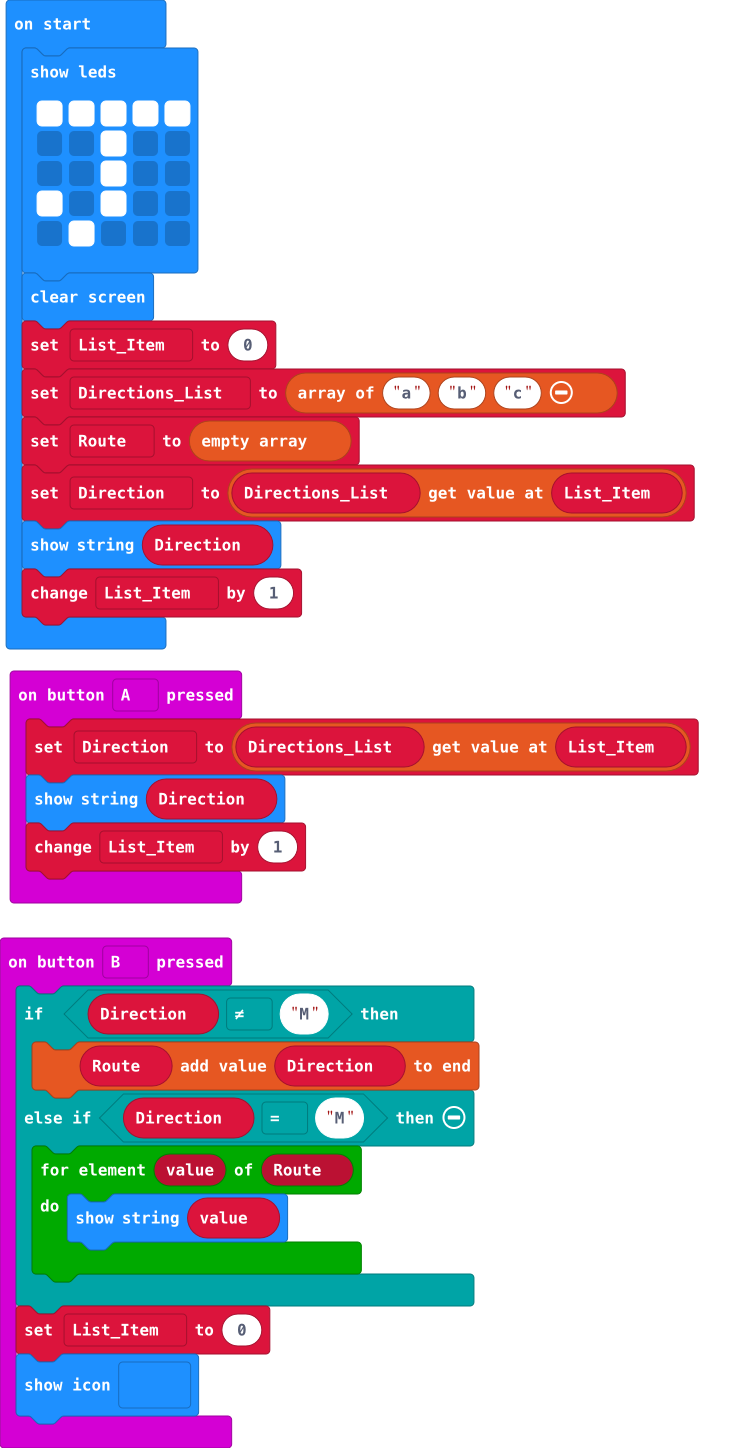
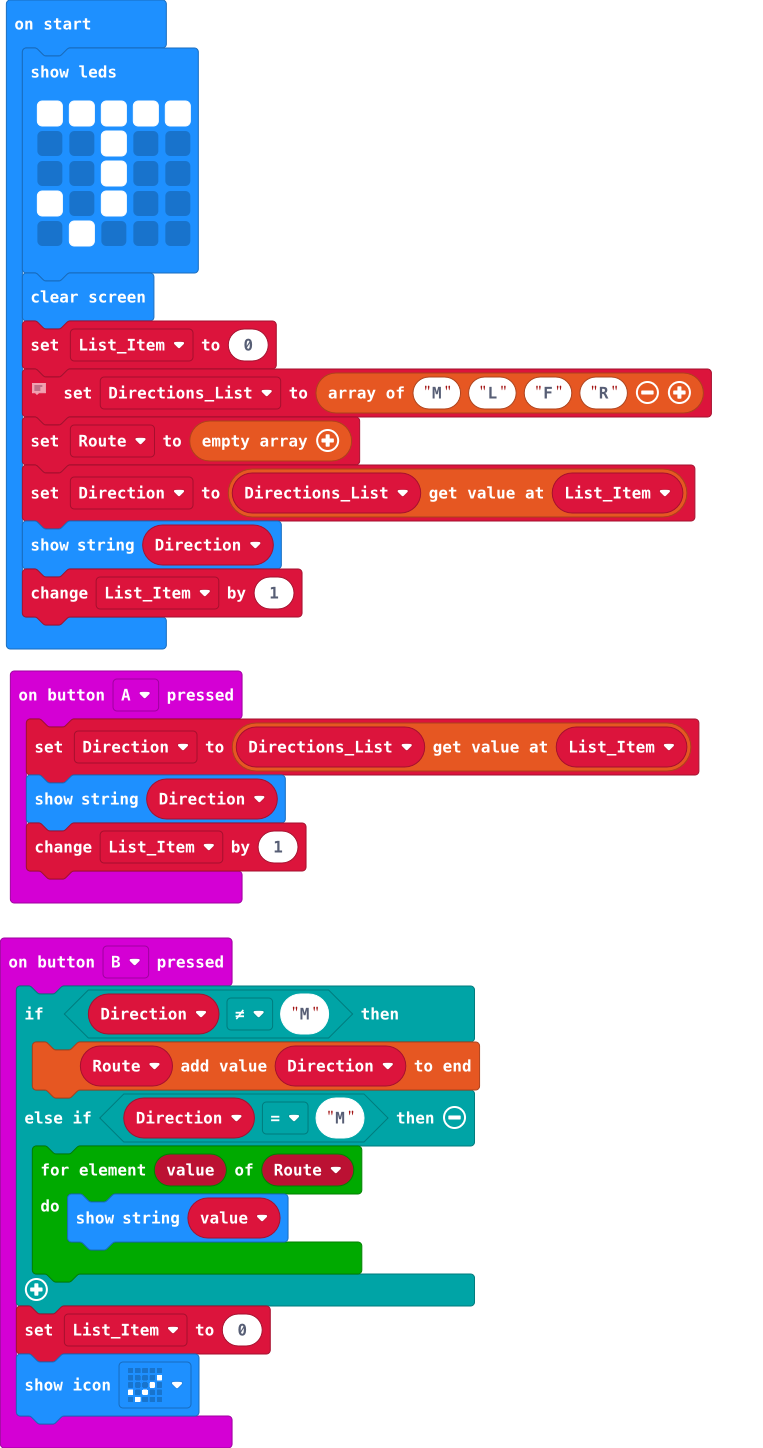
Added comments for directions

diff --git a/main.ts b/main.ts
@@ -27,7 +27,8 @@ basic.showLeds(`
     `)
 basic.clearScreen()
 List_Item = 0
-Directions_List = ["a", "b", "c"]
+// Menu / Left / Forward / Right
+Directions_List = ["M", "L", "F", "R"]
 Route = []
 Direction2 = Directions_List[List_Item]
 basic.showString(Direction2)
